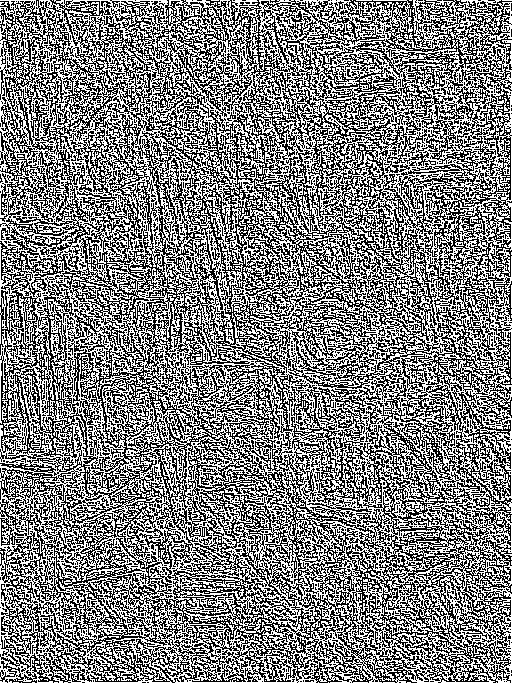
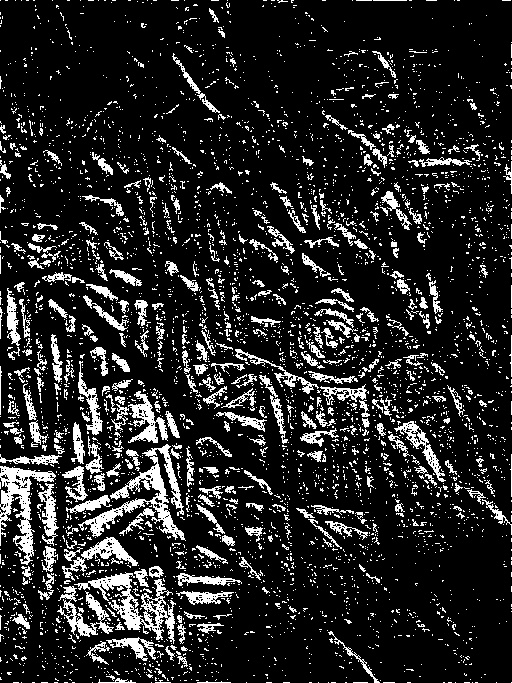
Added code for Otsu Thresholding Algorithm

diff --git a/assignment1/ass1.py b/assignment1/ass1.py
@@ -86,8 +86,8 @@ def part2(img):
 ########################################### Sharpen Image ##########################################
 def part3(img):
 	kernel = np.array([[-1,-1,-1], 
-					 [-1, 9,-1],
-					 [-1,-1,-1]])
+										 [-1, 9,-1],
+										 [-1,-1,-1]])
 
 	sharpened_img = np.zeros(img.shape)
 	for i in range(img.shape[0]):
@@ -103,21 +103,79 @@ def part3(img):
 
 
 ########################################## Adaptive Thresholding #######################################
+# def part4(img):
+# 	binary_img = np.zeros(img.shape)
+# 	for i in range(img.shape[0]):
+# 		for j in range(img.shape[1]):
+# 			mean = 0
+# 			for k1 in range(-1,2):
+# 				for k2 in range(-1,2):
+# 					h = i + k1
+# 					w = j + k2
+# 					if h<0 or w<0 or h>=img.shape[0] or w>=img.shape[1]:
+# 						continue
+# 					mean += img[h][w]
+# 			mean = mean/9
+# 			binary_img[i][j] = 255 if img[i][j]>=mean else 0
+# 	return binary_img.astype(np.uint8) 																																																																							
+
+def otsu(img):
+	'''
+	Calculating threshold by maximizing between-class variance 
+	(which also has the minimum within-class variance).
+
+	'''
+
+	# Compute histogram
+	histogram = np.zeros(256)
+	h,w = img.shape
+	for i in range(h):
+		for j in range(w):
+			histogram[int(img[i][j])] += 1
+	# histogram /= h*w
+
+	max_variance = float('-inf')
+	threshold = -1
+
+	for i in range(0, 255):
+		
+		# Class 1
+		weight1 = 0
+		mean1 = 0
+		for j in range(i+1):
+			weight1 += histogram[j]
+			mean1 += j * histogram[j]
+		mean1 /= weight1
+		weight1 /= h*w
+
+		# Class 2
+		weight2 = 0
+		mean2 = 0
+		for j in range(i+1, 256):
+			weight2 += histogram[j]
+			mean2 += j * histogram[j]
+		mean2 /= weight2	
+		weight2 /= h*w
+
+		# Between class variance
+		variance = weight1 * weight2 * (weight1 - weight2)**2
+		if variance > max_variance:
+			max_variance = variance
+			threshold = i
+
+	return threshold
+
 def part4(img):
+	# Calculate threshold using otsu algorithm
+	threshold = otsu(img)
+	
+	# Binarize image
 	binary_img = np.zeros(img.shape)
 	for i in range(img.shape[0]):
 		for j in range(img.shape[1]):
-			mean = 0
-			for k1 in range(-1,2):
-				for k2 in range(-1,2):
-					h = i + k1
-					w = j + k2
-					if h<0 or w<0 or h>=img.shape[0] or w>=img.shape[1]:
-						continue
-					mean += img[h][w]
-			mean = mean/9
-			binary_img[i][j] = 255 if img[i][j]>=mean else 0
-	return binary_img.astype(np.uint8) 																																																																							
+			if img[i][j] > threshold:
+				binary_img[i][j] = 255
+	return binary_img.astype(np.uint8)
 
 ########################################## Detection of Harris Corner points #######################################
 
